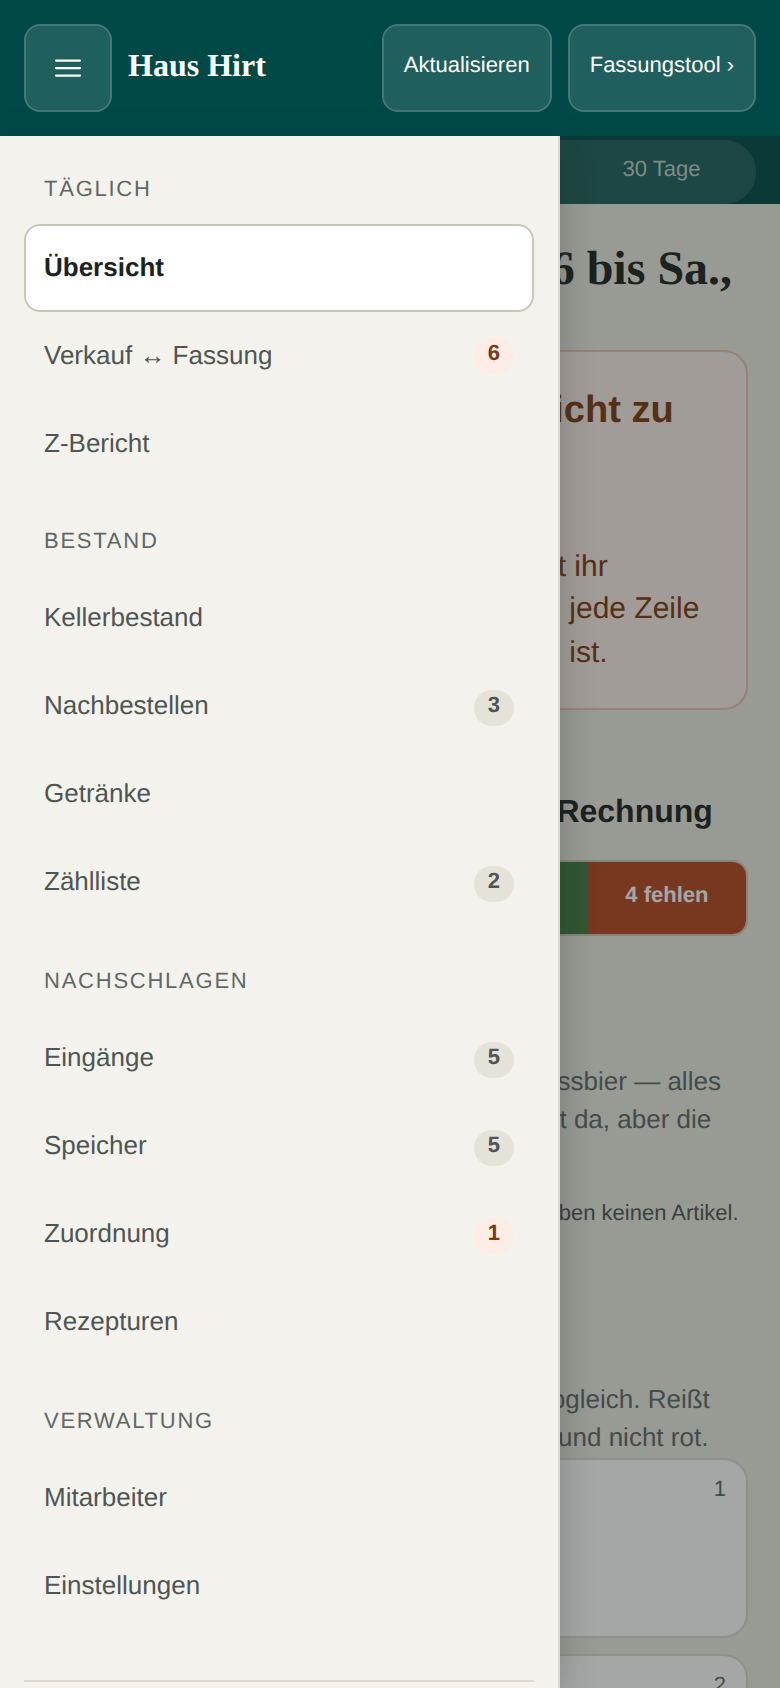
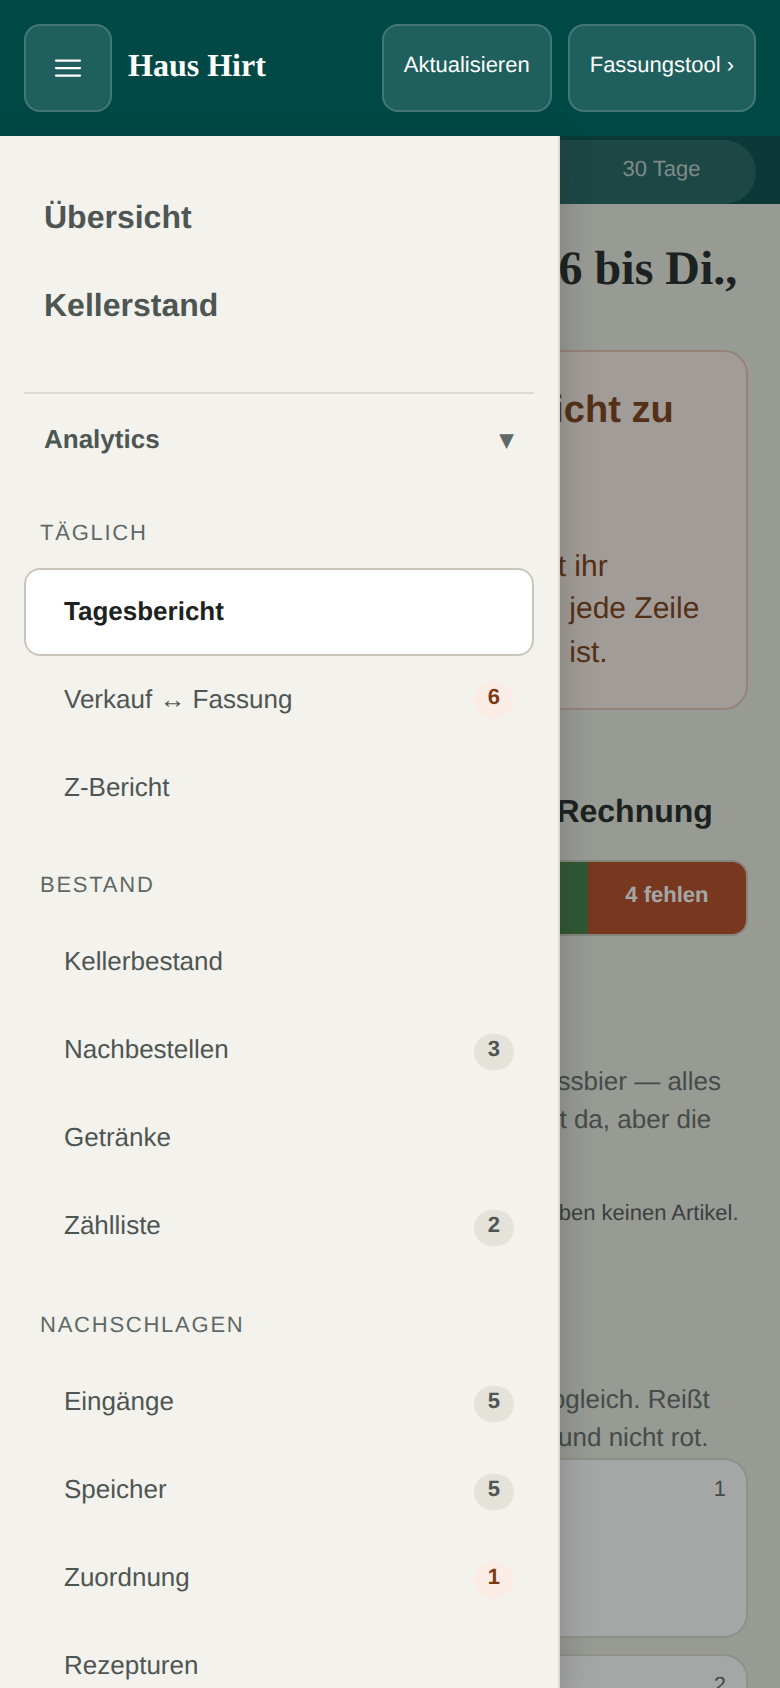
[software-engineer] Runde 24: Flaschengrößen in der Übersicht annehmen, Prüfungen, Doku
Claude-Session: https://claude.ai/code/session_01XL68Bp63fcSJLfNTZNmuMH

diff --git a/public/leitung.html b/public/leitung.html
@@ -407,6 +407,7 @@ nav.seite button.ana{padding-left:var(--space-5)}
 .bs.gl{background:var(--glas-bg);border-color:var(--glas-bd);color:var(--glas)}
 .bs.warn,.bs.gl.warn{background:var(--warn-bg);border-color:var(--warn-border);color:var(--warn-fg)}
 .bs svg{width:12px;height:14px}
+.bs .ann{font-style:normal;font-size:11px;color:var(--fg-muted);margin-left:4px;border-left:1px solid currentColor;padding-left:5px;opacity:.8}
 .dot{width:28px;height:28px;border-radius:50%;display:inline-flex;align-items:center;justify-content:center;
   font-size:12px;font-weight:var(--weight-bold);color:#fff}
 .dot.ok{background:var(--success)}.dot.no{background:var(--danger)}.dot.un{background:#9A7700}
@@ -434,6 +435,8 @@ nav.seite button.ana{padding-left:var(--space-5)}
   .bkpi{grid-template-columns:repeat(2,1fr)}
   .brow .nm{padding-left:10px;font-size:13px}.brow .rt{padding:6px 8px}.brow .ql{padding-right:8px}
   .dot{width:22px;height:22px;font-size:10px}.bhd>div{padding:8px}
+  .bs .ann{display:none}.bs{font-size:12px;padding:2px 6px}
+  .brow .ql{flex-direction:column;align-items:flex-end;justify-content:center;gap:2px}
   .bdatum{min-width:0;font-size:20px}
   .btab.ks .bhd,.krow{grid-template-columns:minmax(0,1fr) 52px 80px 52px}
 }
@@ -3150,6 +3153,24 @@ function zeilenName(id, namen){
   const k=kernName(gn.name);
   return GN_TITEL.get(gnNorm(k)) || k;
 }
+/* Casimir (30.09.2026, auf Rückfrage): In der Live-Datenbank ist keine
+   einzige Flaschengrösse bestätigt — rechts stünde überall „?". Seine
+   Wahl: „automatisch annehmen". Die Übersicht rechnet deshalb mit dem
+   Vorschlag (Grösse im Artikelnamen, sonst Weinflasche 0,75 l) und ein
+   Getränk ohne bekannte Grösse als ein Stück = eine Flasche. JEDE solche
+   Zahl trägt die Marke `ann` und wird als „angenommen" gezeigt; eine
+   bestätigte Grösse schlägt die Annahme. NUR hier — `abgleich()` und
+   alles unter Analytics rechnen weiter streng. Ohne Ausschankmenge im
+   Kassennamen (Cocktail „1 Glas") wird nichts angenommen. */
+function annehmen(f, p, artId){
+  if(f.ok || f.fehlt!=="gebinde") return f;
+  /* Getränke: ein Stück an der Kasse = eine Flasche. Die Grösse im
+     Stammnamen taugt dafür nicht („Gasteiner 1 l" ist die 0,75er). */
+  if(!byId(artId)) return {ok:true, fl:(+p.anzahl||0), aus:f.aus, geb:{ml:f.aus}, ann:"stueck"};
+  if(f.geb && f.geb.ml) return {ok:true, fl:(+p.anzahl||0)*f.aus/f.geb.ml, aus:f.aus, geb:f.geb, ann:"groesse"};
+  if(!byId(artId)) return {ok:true, fl:(+p.anzahl||0), aus:f.aus, geb:{ml:f.aus}, ann:"stueck"};
+  return f;
+}
 /* Das Herz der Übersicht. Liefert je Artikel beide Seiten, und daneben
    alles, was NICHT in eine Zahl ging — mit Namen, nie still. */
 function gegenueber(F){
@@ -3173,14 +3194,14 @@ function gegenueber(F){
       if(da) da.anzahl+=n; else offen.push({name:p.name, anzahl:n}); return; }
     if(zu.status==="ignoriert"){ const da=ignoriert.find(o=>o.name===p.name);
       if(da) da.anzahl+=n; else ignoriert.push({name:p.name, anzahl:n}); return; }
-    const Zl=zeile(zu.id), f=flaschen(p, zu.id);
+    const Zl=zeile(zu.id), f=annehmen(flaschen(p, zu.id), p, zu.id);
     const glas = f.aus && f.geb && f.geb.ml && f.aus < f.geb.ml*0.9;
     let da=Zl.pos.find(o=>o.name===p.name && !o.rezept);
     if(!da){ da={name:p.name, anzahl:0, aus:f.aus, glas:!!glas, fl:f.ok?0:null, fehlt:f.ok?null:f.fehlt,
-      vorschlag:zu.status!=="fest"}; Zl.pos.push(da); }
+      ann:f.ann||null, vorschlag:zu.status!=="fest"}; Zl.pos.push(da); }
     da.anzahl+=n;
     if(glas) Zl.gl+=n;
-    if(f.ok){ da.fl+=f.fl; Zl.rechts+=f.fl; if(glas) Zl.glFl+=f.fl; }
+    if(f.ok){ da.fl+=f.fl; Zl.rechts+=f.fl; if(glas) Zl.glFl+=f.fl; if(f.ann) Zl.ann=true; }
     else Zl.fehlt++;
   }));
   gebucht().filter(v=>drin(v.tag)).forEach(v=>{
@@ -3220,18 +3241,19 @@ const fmtD = d => (d>0?"+":d<0?"−":"")+num(Math.abs(d));
 const GLAS_SVG='<svg viewBox="0 0 12 14" aria-hidden="true"><path d="M2 1h8l-1 6a3 3 0 0 1-6 0zM6 10v3M3.5 13h5" fill="none" stroke="currentColor" stroke-width="1.4"/></svg>';
 
 function baustein(p){
-  const tip=' title="'+esc(p.name)+'"';
+  const tip=' title="'+esc(p.name)+(p.ann?' · Flaschengröße angenommen, nicht bestätigt':'')+'"';
+  const an=p.ann?'<em class="ann">angenommen</em>':'';
   if(p.rezept) return '<span class="bs"'+tip+'>'+esc(p.name)+' '+p.anzahl+'×'+(p.fl!=null?' = '+num(p.fl)+' Fl.':' · Größe fehlt')+'</span>';
   if(p.glas){
     if(p.fl==null) return '<span class="bs gl warn"'+tip+'>'+GLAS_SVG+p.anzahl+' × '+esc(mlKurz(p.aus))+' · Flaschengröße fehlt</span>';
-    return '<span class="bs gl"'+tip+'>'+GLAS_SVG+p.anzahl+' × '+esc(mlKurz(p.aus))+' = '+num(p.fl)+' Fl.</span>';
+    return '<span class="bs gl"'+tip+'>'+GLAS_SVG+p.anzahl+' × '+esc(mlKurz(p.aus))+' = '+num(p.fl)+' Fl.'+an+'</span>';
   }
   if(p.fl==null) return '<span class="bs warn"'+tip+'>'+p.anzahl+' × '+esc(p.name)+' · '+(p.fehlt==="ausschank"?'keine Menge im Namen':'Größe fehlt')+'</span>';
-  return '<span class="bs"'+tip+'>Fl. '+num(p.fl)+'</span>';
+  return '<span class="bs"'+tip+'>Fl. '+num(p.fl)+an+'</span>';
 }
 function blickZeile(z){
   const A=artInfo(z.art);
-  const einfach = z.pos.length===1 && !z.pos[0].glas && z.pos[0].fl!=null && !z.pos[0].rezept;
+  const einfach = z.pos.length===1 && !z.pos[0].glas && z.pos[0].fl!=null && !z.pos[0].rezept && !z.pos[0].ann;
   const rechts = z.pos.length
     ? (einfach?'':z.pos.map(baustein).join(""))+'<span class="sum">'+(z.fehlt?'–':num(z.rechts))+'</span>'
     : '<span class="klein">nicht verkauft</span><span class="sum">0</span>';
@@ -3281,6 +3303,8 @@ function vBlick(m){
   if(G.ohneFassung.length) hw.push(['warn','Keine Fassung für '+G.ohneFassung.map(kurzTag).join(", ")+' — der Verkauf dieser Tage hat links kein Gegenüber.',null,null]);
   if(G.laufend) hw.push(['warn',G.laufend+(G.laufend===1?' Vorgang läuft':' Vorgänge laufen')+' noch — was dort steht, zählt erst nach dem Abschluss.',null,null]);
   if(G.offen.length) hw.push(['warn',G.offen.length+' Kassenname'+(G.offen.length===1?'':'n')+' ohne Zuordnung — stehen unten, zählen nirgends mit.','Zuordnen','zuordnung']);
+  const nAnn=sicht.filter(z=>z.ann).length;
+  if(nAnn) hw.push(['info',nAnn+' Position'+(nAnn===1?'':'en')+' mit angenommener Flaschengröße (nicht bestätigt) — bestätigen unter Analytics → Zuordnung.',null,null]);
   h+=hw.map((x,i)=>'<div class="hinweis '+x[0]+' bhw"><span>'+esc(x[1])+'</span>'+(x[2]?'<button type="button" class="b klein stark" data-geh="'+x[3]+'">'+esc(x[2])+'</button>':'')+'</div>').join("");
 
   const sL=sicht.reduce((a,z)=>a+z.links,0), sR=sicht.reduce((a,z)=>a+z.rechts,0);

diff --git a/public/sw.js b/public/sw.js
@@ -21,7 +21,7 @@
    Sonst behält das iPhone hartnäckig den alten Stand.
    ════════════════════════════════════════════════════════════════════ */
 
-const VERSION = "v74";
+const VERSION = "v75";
 const SPEICHER = "hh-fassung-" + VERSION;
 
 /* Was im Keller verfügbar sein muss. Die Schriften stehen mit drin,

diff --git a/review/ERGEBNIS.md b/review/ERGEBNIS.md
@@ -1,86 +1,33 @@
-# Runde 23 · Die Kassennamen der Berichte Z 41 bis Z 43
+# Runde 24 · Backoffice neu geordnet · „leer" in der App
 
-Anlass: drei neue Z-Berichte (19.–23.09.2026). Im Backoffice lagen
-Z 40 und Z 41; Z 42 und Z 43 fehlen und müssen eingelesen werden.
+**Keine Migration.** Live-D1 nur gelesen (Mapping: 13 zugeordnet, 8 ignoriert, **0 bestätigte Flaschengrößen**).
 
-**Keine Migration.** Live-D1 wurde nur gelesen.
+## Backoffice
+- **Oben nur noch zwei Seiten:** „Übersicht" und „Kellerstand". Alle bisherigen Seiten liegen unverändert unter **„Analytics"** (aufklappbar, gleiche Gruppen). Die alte Übersicht heißt dort „Tagesbericht".
+- **Neue Übersicht** (Vorlage `review/mockup/r24/e-v3.html`, von Casimir freigegeben):
+  - Tag / Woche (Mo–So) / Monat, mit ‹ › blättern.
+  - Links „Fassung · fehlt oben", rechts „Z-Bericht · gastronovi", je Zeile ein Status-Punkt (grün stimmt, rot weicht ab, gelb offen).
+  - Nach Art sortiert und farbig: Weiß, Rosé, Rot, Natur, Schaumwein, Bier, Wasser & Soft, Mixer, Säfte. Filter-Chips mit Zahl der Abweichungen.
+  - Gläser: eigenes Feld mit Rechnung „4 × ⅛ l = 0,7 Fl.", Kopfzahl „23 Gläser = 6,6 Fl.".
+  - Was stimmt, ist je Art zu einer grauen Zeile zusammengeklappt. „Stimmt nicht" zeigt nur Abweichungen.
+  - Hinweise nur als Tatsachen: Z-Bericht fehlt (mit Knopf zum Einlesen), Fassung fehlt, Vorgang läuft, Kassennamen ohne Zuordnung (unten aufgelistet).
+  - Namen: Wein aus der gastronovi-Artikelliste (`docs/gastronovi-artikel.csv`, exakter Vergleich, kein Raten), sonst der Kassenname wörtlich.
+  - **Flaschengrößen werden angenommen und markiert** (Entscheidung Casimir 30.09.): Wein mit dem Vorschlag (meist 0,75 l), Getränke 1 Stück = 1 Flasche. Jede solche Zahl trägt „angenommen". Analytics rechnet weiter streng.
+- **Kellerstand:** letzte Zählung + Eingänge − geholt, nach Art, „leer" sichtbar. Knopf **„Analyse"**: aus dem Keller geholt ↔ verbucht seit der Zählung.
 
-## Was sich ändert
+## App
+- **Kellerzählung:** Knopf „leer" je Wein → gezählt mit 0, Abschluss möglich. Eine gezählte Flasche nimmt „leer" zurück.
+- **Holen:** Knopf „leer" je Position → Menge 0, Zeile erledigt, Backoffice zeigt „leer".
+- **Zusätzlich entnommen** ist eine eigene Karte mit Titel, Zahl und Knopf „+ Hinzufügen" statt eines grauen Textlinks.
 
-Die geprüfte Vorabliste wächst von **36 auf 104 ganze Kassennamen**.
-Über die drei Berichte zusammen (104 verschiedene Namen) bleibt damit
-**1 offen** statt 58.
-
-| | vorher | nachher |
-|---|---|---|
-| Namen in der Vorabliste | 36 | 104 |
-| offen in Z 41–43 | 58 | 1 |
-| offen im Referenzbericht 37 | 7 | 0 |
-
-### 1 · Fassbier ist keine Vermutung mehr
-
-Raschhofer Pils (0,2 / 0,3 / 0,5 l) und Radler (0,3 / 0,5 l) standen im
-Morgenbrief als offene Frage. Sie ist an den Daten entschieden: in allen
-drei Berichten gehen genau diese fünf Namen Stück für Stück in der
-Warengruppe **Bier · vom Fass** auf — 12 · 7 · 11, ohne Rest. Im Keller
-liegt kein Fass und kein Pils. Gegenprobe: **Bier · Flaschenbier** geht
-ebenso ohne Rest in den Kellerartikeln auf (4 · 4 · 2).
-
-### 2 · Mischgetränke stehen auf Ignorieren
-
-Runde 22 hatte das abgelehnt, mit einer Begründung, die weiter gilt: ein
-Whiskey Sour nimmt Zitronensaft, ein Gin & Tonic nimmt Tonic, ein Virgin
-Hugo nimmt Holundersirup — alles das wird im Keller gezählt und fehlt der
-Rechnung, sobald es ignoriert wird.
-
-Die Entscheidung ist inzwischen gefallen: im Backoffice stehen Aperol
-Spritz, Sarti Spritz, Monkey Sour und Ipanema seit dem 22.09. von Hand
-auf Ignorieren. Der neue Block `VORAB_MISCHGETRAENK` zieht die übrigen 27
-Namen derselben Art nach. Er steht **getrennt**, damit das Zurücknehmen
-eine Löschung ist: wer Rezepte will, entfernt den Block.
-
-### 3 · Was sonst dazukam
-
-* **Wein:** Fritsch Wagram Rosé (Glas und Flasche, Kürzel `RS` — keine
-  Rebsorte, deshalb greift das Kassenmuster nicht), Kollwentz Leithakalk
-  Chardonnay (die Kasse schreibt `Ch kollwenz`).
-* **Getränke:** Franziskaner dunkel, Almdudler, Gasteiner still,
-  Fentimans Ginger Beer, Spritzerwein, Johannisbeersaft.
-* **Kein Keller:** ganze Gänge (Dinner Menü, Suppe, Salatbuffet), Tee und
-  Milchgetränke aus der Maschine, zwei Schnäpse, hausgemachte Limonaden.
-
-### 4 · Die Gasteiner-Familie ist geklärt
-
-Casimir hat am 23.09.2026 aufgezählt, welche Flaschen es im Haus gibt:
-**still, sparkling gross (0,75) und sparkling klein (0,2)** — mehr nicht.
-
-* `Gasteiner sparkling 0,75l` → **Gasteiner 1 l** (der Artikelname im
-  Stamm trägt die falsche Grösse; die Zuordnung steht live seit Wochen
-  bestätigt und ist richtig)
-* `Gasteiner sparkling 0,20l` → **Gasteiner 0,25 l**, die kleine
-* `Gasteiner still 0,75l` → **Gasteiner still**
-* `Gasteiner Quellwasser 0,5l` und `1l` → **kein Keller**, weil
-  Quellwasser keine der drei Flaschen ist
-
-## Was offen bleibt
-
-Ein Name: **Apfelsaft 0,25 l** (1 Stück in Z 42). Im Keller gibt es
-keinen Apfelsaft — entweder fehlt der Artikel im Stamm, oder der Name
-gehört dauerhaft auf Ignorieren.
+## Worker
+- Eine Zählung mit 0 geht jetzt ins Journal (vorher verworfen). Bewegungen mit 0 bleiben draußen. Append-only unverändert.
 
 ## Geprüft
+- `npm test` **583 von 583** (neu: `tests/gastronovi-liste.test.mjs`).
+- Browser: `tests/ui-runde24.cjs` **30/30** (echter Worker), `tests/ui-runde24-app.cjs` **9/9**, `ui-leitung-echt` 44/44, `ui-runde22` 31/31, `ui-runde21` 19/19, `ui-runde17` 38/38, `ui-runde18` ohne Fund.
+- Bilder: `review/screens/r24/`. `sw.js` auf **v75**.
 
-* `npm test` **581 von 581**
-* Browser: `ui-runde22.cjs` 31/31 · `ui-leitung-echt.cjs` 44/44 ·
-  `ui-runde21.cjs` 19/19 · `ui-runde18.cjs` 54/54
-* Vorabliste gegen **vier echte Berichte** gerechnet: Z 40 (Rohtext aus
-  der Live-D1), Z 41, Z 42, Z 43 und der Fixture-Bericht 37.
-* Zwei Prüfungen hingen an Kassennamen, die offen bleiben sollten, und
-  sind dadurch rot geworden. Beide sind so geändert, dass sie das prüfen,
-  wovon sie handeln — eine davon hängt jetzt an einem erfundenen Namen.
+🤖 Generated with [Claude Code](https://claude.com/claude-code)
 
-## Nach dem Merge
-
-Z 42 und Z 43 im Backoffice einlesen und einmal
-**„Alle Vorschläge übernehmen"** drücken. Der Klick zieht auch die schon
-eingelesenen Berichte Z 40 und Z 41 nach.
+https://claude.ai/code/session_01XL68Bp63fcSJLfNTZNmuMH

diff --git a/STAND.md b/STAND.md
@@ -1,13 +1,12 @@
 # Stand · Fassungstool
 
-**Letzte Aktualisierung:** 23.09.2026 (Runde 23 · Kassennamen Z 41–43)
+**Letzte Aktualisierung:** 30.09.2026 (Runde 24 · Backoffice neu geordnet, „leer")
 
 Diese Datei zuerst lesen. Das ganze Repo zu erkunden ist nicht nötig.
 Tiefe Details: `PROJEKTANLEITUNG-Fassungstool.md`, `UEBERGABE-TECHNISCH.md`.
 
 ## Wo wir stehen
-- **Runde 23 ist gemergt und LIVE** (PR #18, 23.09.2026). Alle Runden bis
-  einschliesslich 23 sind auf `main`.
+- **Runde 24 liegt als PR bereit** (nicht gemergt). Runde 23 ist LIVE (PR #18).
 - Die Runden 17 bis 22 stehen weiter unten, jede mit dem, was sie gebracht hat.
 - Jeder Push auf `main` geht **automatisch live** (Workers Builds).
 - `sw.js` steht mit Runde 23 auf **v73**.
@@ -20,6 +19,23 @@ Tiefe Details: `PROJEKTANLEITUNG-Fassungstool.md`, `UEBERGABE-TECHNISCH.md`.
   `review/ERGEBNIS.md`, die Übergaben aller Runden in `review/LOG.md`,
   die Fragen an Casimir in `review/MORGENBRIEF.md`.
 - **Offen ist keine Migration.**
+
+## Runde 24 (30.09.2026) — Backoffice neu geordnet, „leer" in der App
+
+Branch `claude/upbeat-tesla-wq8whz`, PR offen (nicht gemergt). `sw.js` **v75**.
+`npm test` **583/583**. Browser: `node tests/ui-runde24.cjs` 30/30,
+`node tests/ui-runde24-app.cjs` 9/9. **Keine Migration.**
+
+- Backoffice oben nur **Übersicht** und **Kellerstand**; alles Alte unter **Analytics**
+  (alte Übersicht = „Tagesbericht"). Start ist die neue Übersicht.
+- Übersicht: Tag/Woche/Monat, links „fehlt oben", rechts Z-Bericht, Farben je Art,
+  Filter, Gläser-Feld, „Stimmt nicht". Vorlage `review/mockup/r24/e-v3.html`.
+- **Flaschengrößen werden in der Übersicht angenommen und markiert** (Casimir,
+  30.09.) — live ist keine einzige bestätigt. Analytics rechnet weiter streng.
+- gastronovi-Artikelliste: `docs/gastronovi-artikel.csv`, Kopie `GN_ARTIKEL` in
+  `leitung.html`, gleich gehalten von `tests/gastronovi-liste.test.mjs`.
+- App: „leer" bei Kellerzählung (Zählung 0 geht jetzt ins Journal) und beim Holen;
+  „Zusätzlich entnommen" als eigene Karte.
 
 ## Was Runde 18 verändert hat (nur `public/leitung.html`)
 - Die vier Kacheln des Mittagsblicks sind **Knöpfe** und führen weiter.

diff --git a/review/BACKLOG.md b/review/BACKLOG.md
@@ -73,6 +73,9 @@ Spalten: Priorität · Rolle (wer hat es gemeldet) · Runde · Punkt · Datei:Ze
 
 ## Mittel
 
+- **(Runde 24) Betriebstag-Versatz in der neuen Übersicht.** Tag X zeigt Fassung vom Tag X gegen Z-Bericht vom Tag X. Ist der Versatz echt (siehe Hoch), steht in der Tagesansicht jede Zeile rot; in Woche/Monat mittelt es sich. Entscheidung nötig.
+- **(Runde 24) Getränkelager ohne Kellerstand.** Es wird nicht gezählt; der Kellerstand zeigt nur Wein.
+
 | Rolle | Runde | Punkt | Datei:Zeile |
 |---|---|---|---|
 | qa-guardian | 16 | **`kurz()` in `leitung.html` sichert nur den KOPF, nicht den Leib — „PIN zurücksetzen" hängt dann unbegrenzt.** Der `AbortController` wird im `finally` geräumt, sobald `fetch` auflöst, und das ist, sobald die Kopfzeilen da sind; `leitung.html:2741` ruft danach `await r.json()` ohne jede Frist. Gemessen (`tests/qa-runde16-stummer-leib.cjs`, Server sendet `200` + `content-type` und den Leib nie): `kurz()` kommt nach 3 ms zurück, der Aufrufer hängt danach unbegrenzt — `b.disabled=false` am Ende des Handlers wird nie erreicht, der Knopf bleibt tot, es erscheint weder Dialog noch Hinweis, und der `catch`-Zweig mit dem Ersatzcode (`vorschlag`) greift nicht, weil nichts wirft. Der neue Code kann am Server längst stehen: Die Person kann sich dann nicht anmelden und niemand kennt ihren Code. Der Kommentar bei `:927` behauptet „Dieselbe Rechnung wie `holeKurz()` in index.html" — dort wird der Leib seit `79d8bc7` INNERHALB der Frist gelesen, hier nicht. Gegenprobe im selben Lauf: `holeKurz()` kommt bei zurückgehaltenem Leib nach 8001 ms zurück. | `public/leitung.html:927`, `:2741` |

diff --git a/review/LOG.md b/review/LOG.md
@@ -4819,3 +4819,13 @@ Grösse dastehen; der grosse Gasteiner ist dazugekommen.
 
 **STATUS:** FERTIG
 
+
+
+### Runde 24 – software-engineer (/tag, 30.09.2026)
+**Kritik am Vorgänger:** `public/index.html` `zRow`: 0 löschte den Haken, „leer" war nicht erfassbar ↩ geändert · `src/index.js` `zu()`: Zählung 0 verworfen ↩ geändert.
+**Umgesetzt:** Backoffice mit zwei Seiten + „Analytics" (neue Übersicht, Kellerstand/Analyse) · „leer" bei Zählung und Holen · „Zusätzlich entnommen" als Karte.
+**Geprüft:** npm test 583/583, ui-runde24 30/30, ui-runde24-app 9/9, ältere UI-Prüfungen grün.
+**Für die Nächsten:** Die Übersicht NIMMT Flaschengrößen an (Casimirs Wahl) und markiert sie; `abgleich()` bleibt streng. Betriebstag-Versatz Z ↔ Fassung ist weiter offen und betrifft die Tagesansicht direkt.
+**Phase/Thema:** A / Backoffice-Übersicht
+**Backlog:** (mittel) Betriebstag-Versatz in der Tagesansicht sichtbar machen · (niedrig) Getränkelager hat keinen Kellerstand
+**STATUS:** VERBESSERUNGEN

diff --git a/LEARNINGS.md b/LEARNINGS.md
@@ -2,6 +2,15 @@
 
 <!-- Kurz und datiert. Neueste oben. -->
 
+## 30.09.2026 (Runde 24)
+- **Vor dem Bauen die Live-Daten ansehen.** Die neue Übersicht war streng gebaut
+  (nur bestätigte Flaschengrößen) — live gab es davon genau null. Ein Blick in die
+  D1 (nur lesend) hat die Frage an Casimir erst möglich gemacht.
+- **Testordner sind Eingaben.** Eine Referenzliste in `tests/fixtures/` wurde von
+  der Z-Bericht-Prüfung als Bericht gelesen. Nachschlagelisten gehören nach `docs/`.
+- **Ein Wert 0 und „nicht gezählt" brauchen verschiedene Wege.** Die App löschte 0,
+  der Worker verwarf 0 — „leer" musste an beiden Stellen durch.
+
 ## 19.09.2026 (Runde 17)
 - **Ein `save()` ist noch kein Arbeiten.** `start()` speichert unbedingt, und die
   45-Sekunden-Uhr machte daraus einen laufenden Vorgang am Server. Eine Schwelle,
